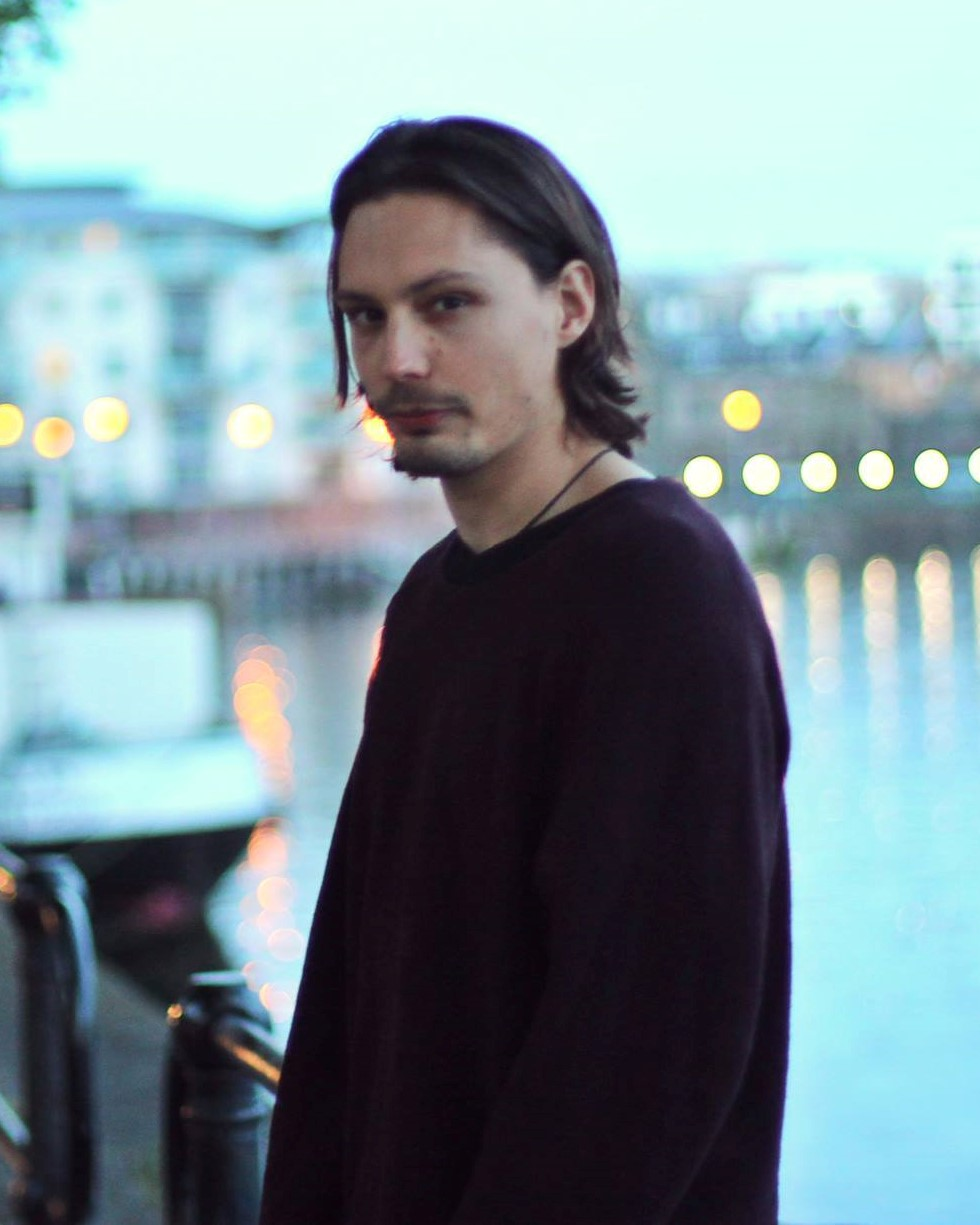
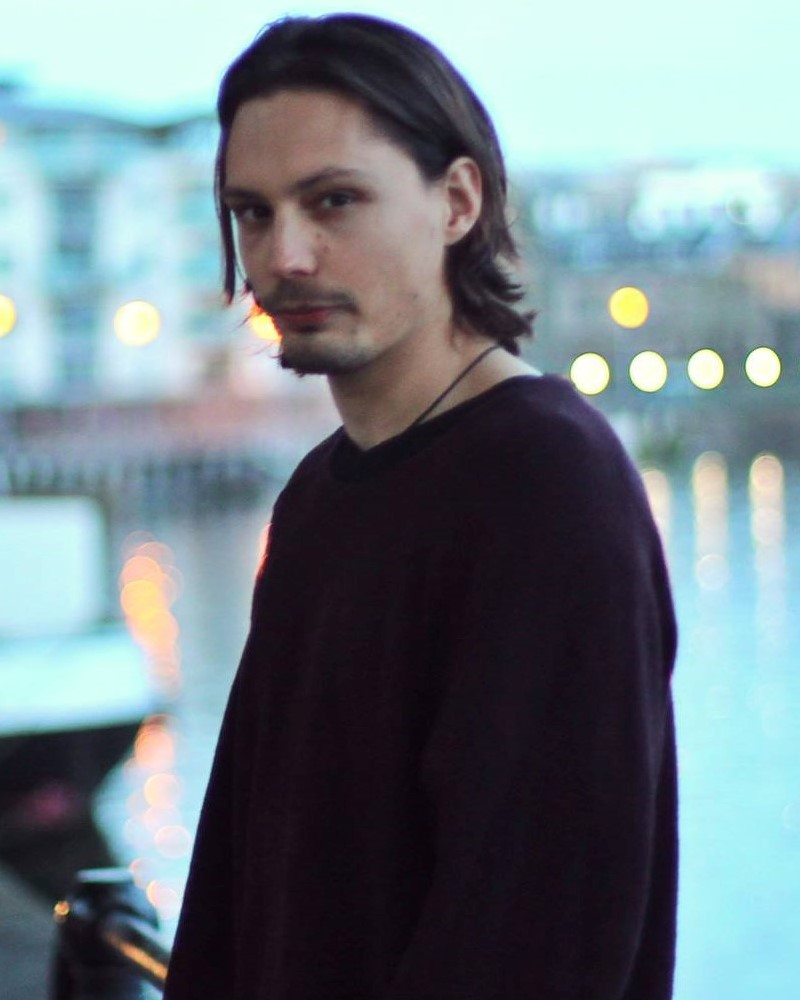
added some student images

diff --git a/index.html b/index.html
@@ -47,15 +47,15 @@
         <p>Cherise</p>
       </a>
       <a href="./index.html" target="_blank">
-        <img class="trainee-img" src="./images/trainees/bex.jpg" alt="Rebecca" />
+        <img class="trainee-img" src="./images/trainees/rebecca.jpg" alt="Rebecca" />
         <p>Rebecca</p>
       </a>
       <a href="./index.html" target="_blank">
-        <img class="trainee-img" src="./images/user-icon.svg" alt="Edward" />
+        <img class="trainee-img" src="./images/trainees/edward.png" alt="Edward" />
         <p>Edward</p>
       </a>
       <a href="./index.html" target="_blank">
-        <img class="trainee-img" src="./images/user-icon.svg" alt="Mairéad" />
+        <img class="trainee-img" src="./images/trainees/mairead.jpg" alt="Mairéad" />
         <p>Mairéad</p>
       </a>
       <a href="./index.html" target="_blank">
@@ -95,11 +95,11 @@
         <p>Edwin</p>
       </a>
       <a href="./index.html" target="_blank">
-        <img class="trainee-img" src="./images/user-icon.svg" alt="Severine" />
+        <img class="trainee-img" src="./images/trainees/severine.jpg" alt="Severine" />
         <p>Severine</p>
       </a>
       <a href="./index.html" target="_blank">
-        <img class="trainee-img" src="./images/trainees/wildman.jpg" alt="David" />
+        <img class="trainee-img" src="./images/trainees/david.jpg" alt="David" />
         <p>David</p>
       </a>
       <a href="./index.html" target="_blank">
